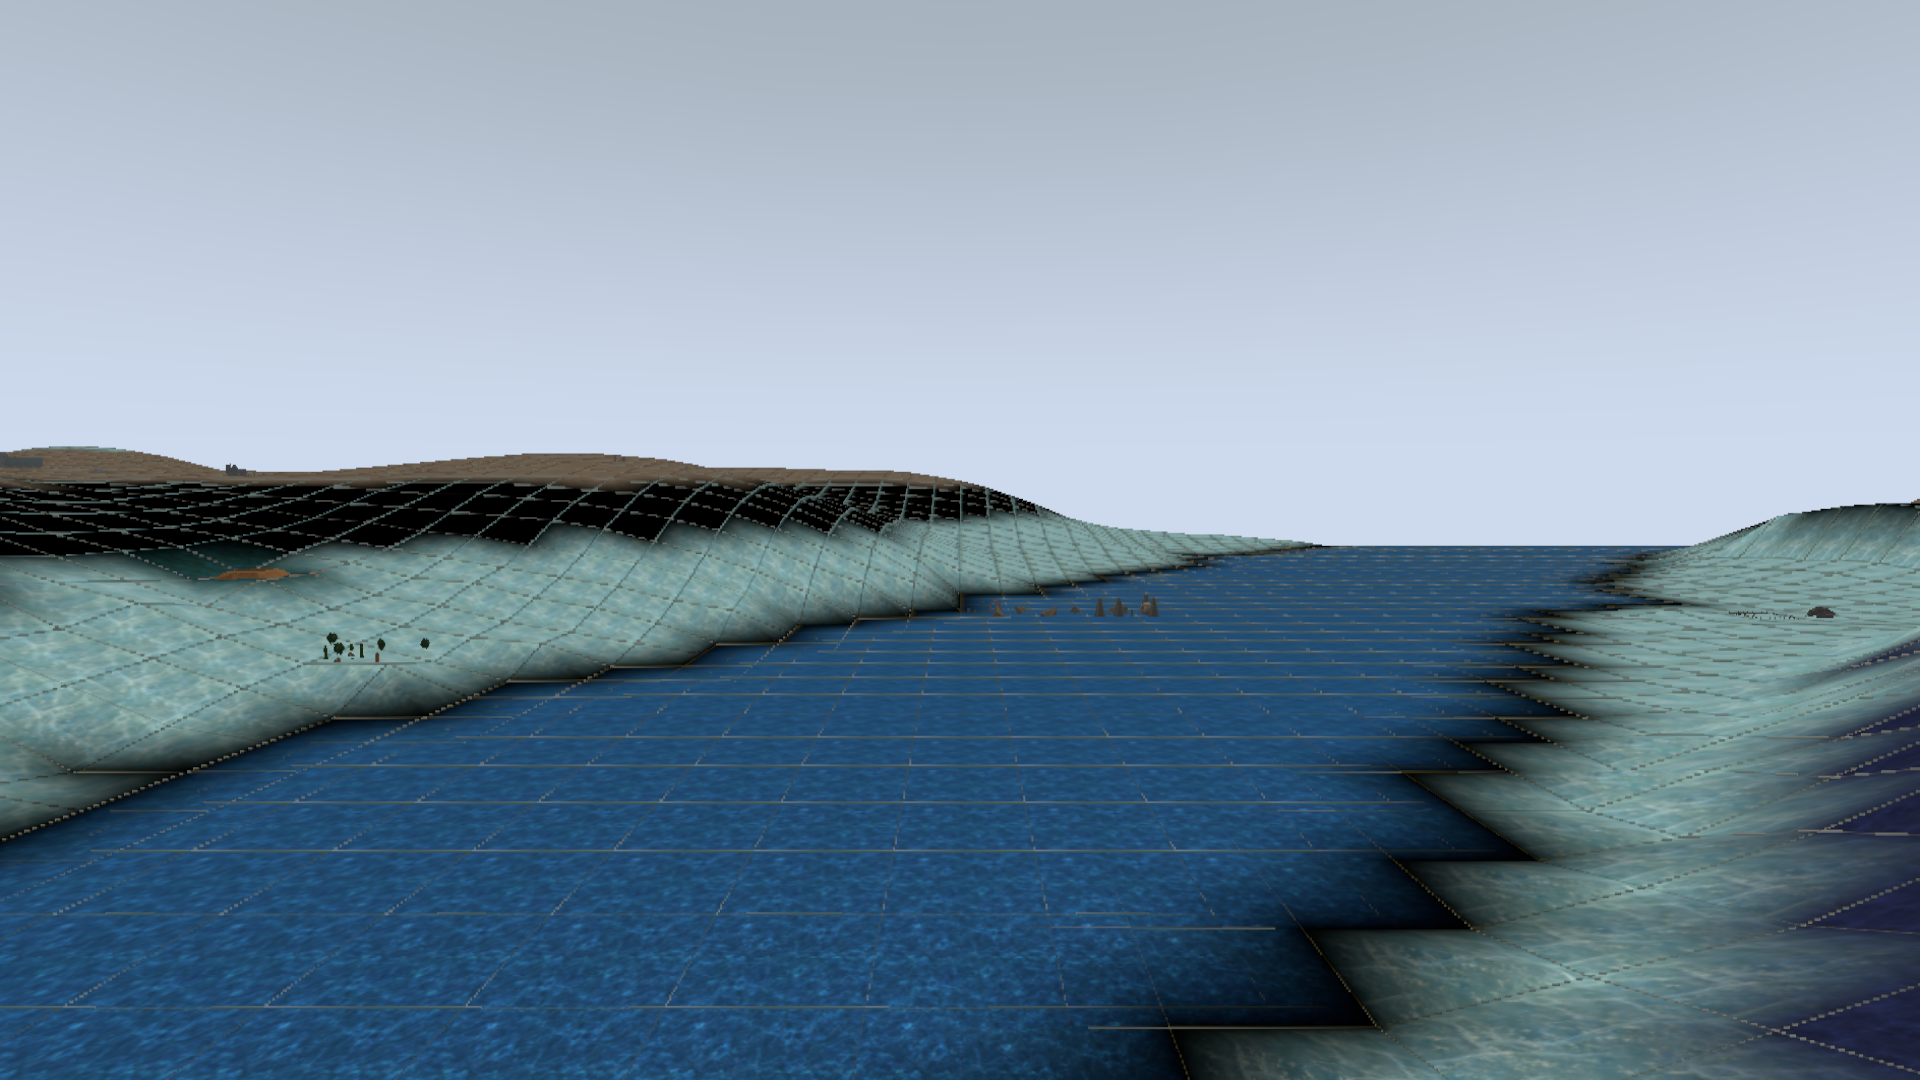
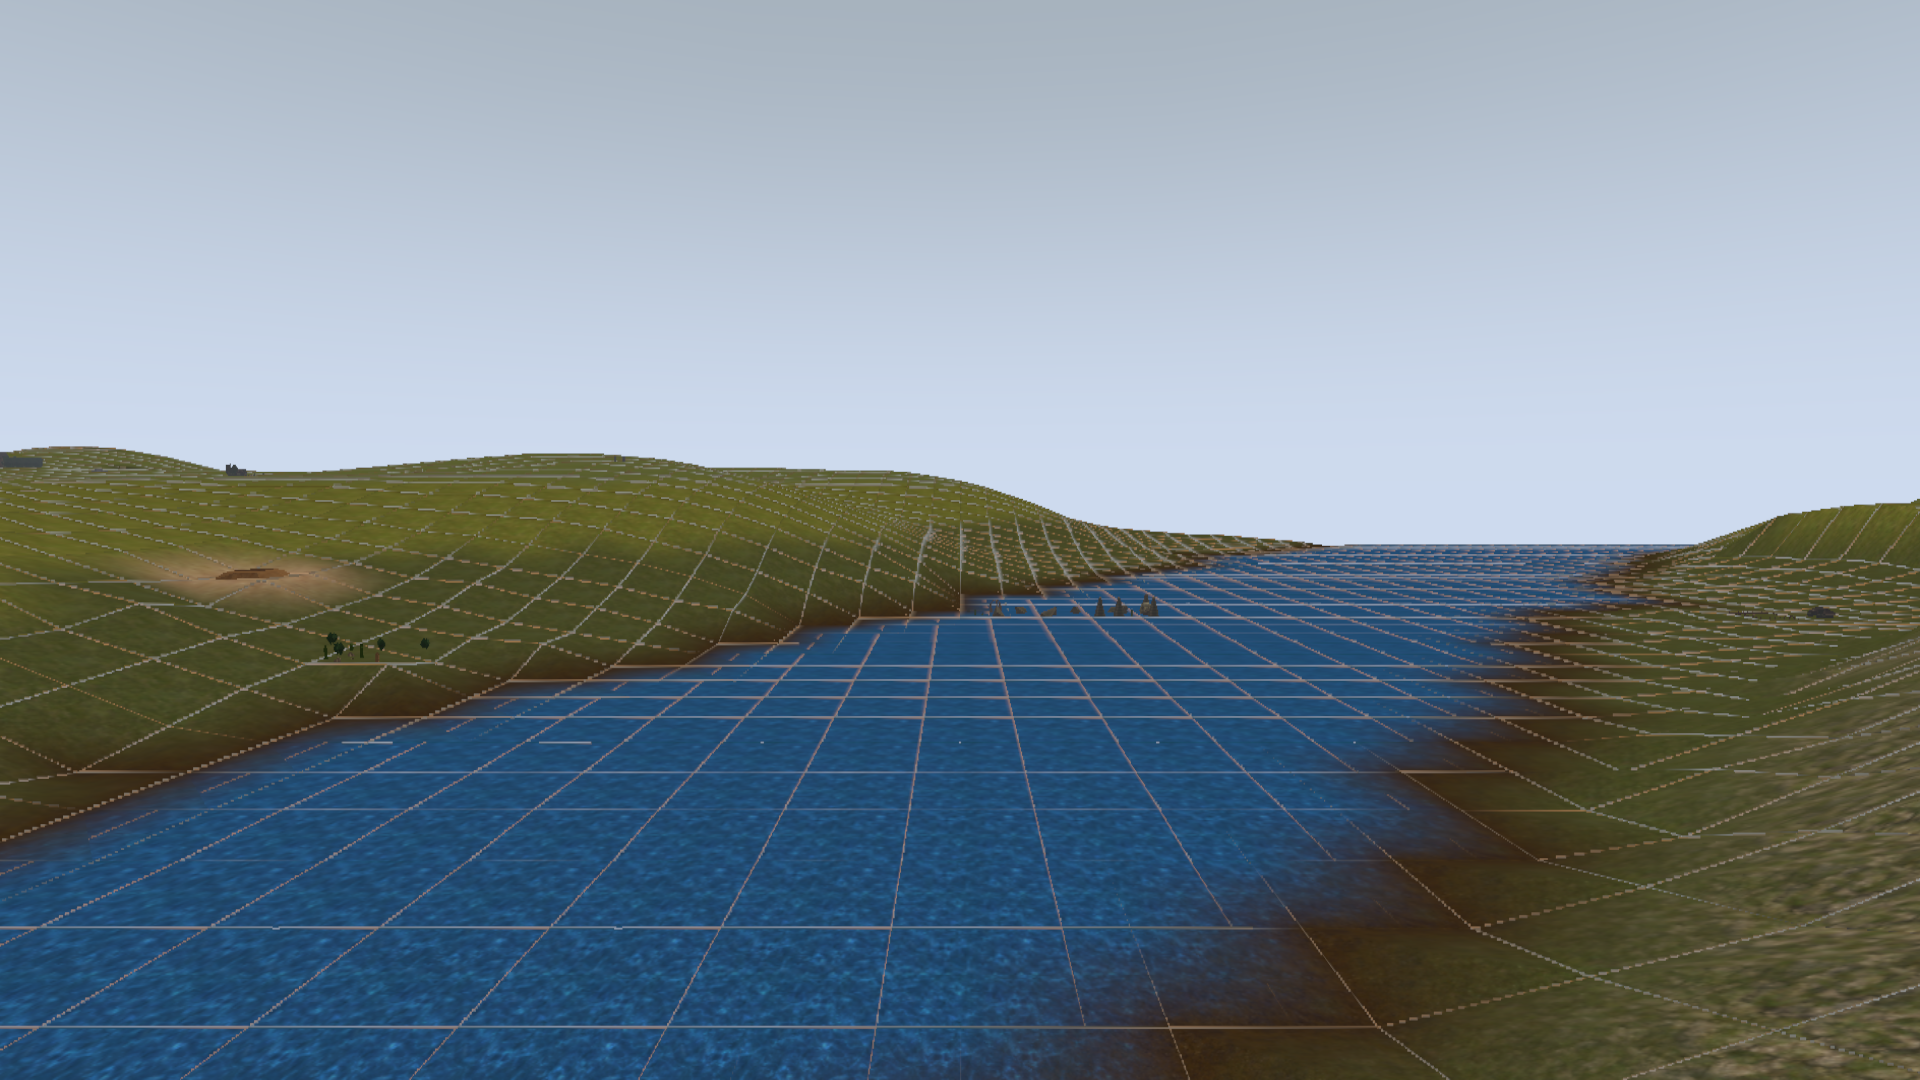
docs(emit-dynamic-site): re-shoot world-expand step 1 screenshots after flipY fix
Re-runs the demonstration capture against commit 53bcbdf
(CanvasTexture.flipY=false fix). The original 10 PNGs at commit
8269e4b showed cyan / grey / black patches across the ring — that was
the atlas-mirror bug, not retail data. The corrected paint matches the
WorldBuilder.Terminal terrain-info oracle: 83 % grass + 9 % water
(legitimate streams in the east-of-Holtburg LBs) + 7 % dirt / marsh /
forestfloor + 0.6 % rock + 0 % snow/ice/sand.

README updated with the WorldBuilder.Terminal oracle baseline and a
note explaining why the prior PNGs looked wrong (so anyone diffing
the two rounds understands the fix scope).

All 10 shots re-shot at the same camera/lookAt poses as before; the
4 Z-adjusted shots (03 / 05 / 07 / 08) keep their terrain-sample
height lifts.

diff --git a/docs/world-expand-step-1-screenshots-2026-05-14/README.md b/docs/world-expand-step-1-screenshots-2026-05-14/README.md
@@ -70,12 +70,27 @@ the screenshots + this README.)
 
 ## Visual notes
 
-The renderer at `quality=high` uses the AC-DAT terrain texture atlas
-with Region 0x13 32-terrain-code mapping (grass / dirt / sand / stone /
-snow). The bright-blue and white-streaked patches across some LBs
-(visible in 01, 05, 06, 07) are the renderer's snow/stone terrain
-codes, not artifacts. Buildings are rendered as per-part GfxObj
-geometry via the Phase 6A fetchBuildingPlacement path; statics
-(barrels, signs, NPC anchors) appear as small dark sprites in the
-overview shots. Fog far is 2500 m per Objective 9, which is why the
-ring is visible from the elevated cameras in shots 1, 9, 10.
+These PNGs were re-shot 2026-05-14 against commit `53bcbdf` which
+fixed the `CanvasTexture.flipY=true` default for the terrain atlas +
+road overlay. The first round of screenshots (also at commit
+`8269e4b` / `dbea563` upstream) showed cyan/grey/black patches across
+most LBs — that was the bug, not retail data: the GPU was sampling
+slot `(5 - C/6) * 6 + C%6` instead of slot `C` for every terrain
+code, so Grassland (1) painted as DesolateLands (31, grey-brown),
+LushGrass (3) as the empty slot 33 (black), PatchyGrassland (9) as
+BlueIce (27, cyan), and SemiBarrenRock (14) as WaterDeepSea (20, dark
+blue).
+
+The corrected paint matches the WorldBuilder.Terminal oracle
+(`terrain_paint_ring.jsonl`): the 13×13 ring is 83 % grass (codes 1
+Grassland, 3 LushGrass, 9 PatchyGrassland), 9 % water (codes 16
+WaterRunning + 17 WaterStandingFresh), 7 % dirt/marsh/forestfloor
+(codes 4 / 5 / 21), 0.6 % rock (codes 6 / 13 / 14), and **0 %
+snow/ice/sand/packed-dirt** — none of those tile types appear in
+Aluvian Heartlands.
+
+Buildings render as per-part GfxObj geometry via the Phase 6A
+`fetchBuildingPlacement` path; statics (barrels, signs, NPC anchors)
+appear as small dark shapes in the overview shots. Fog far is 2500 m
+per Objective 9, which is why the ring extent is visible from the
+elevated cameras in shots 1, 9, 10.
